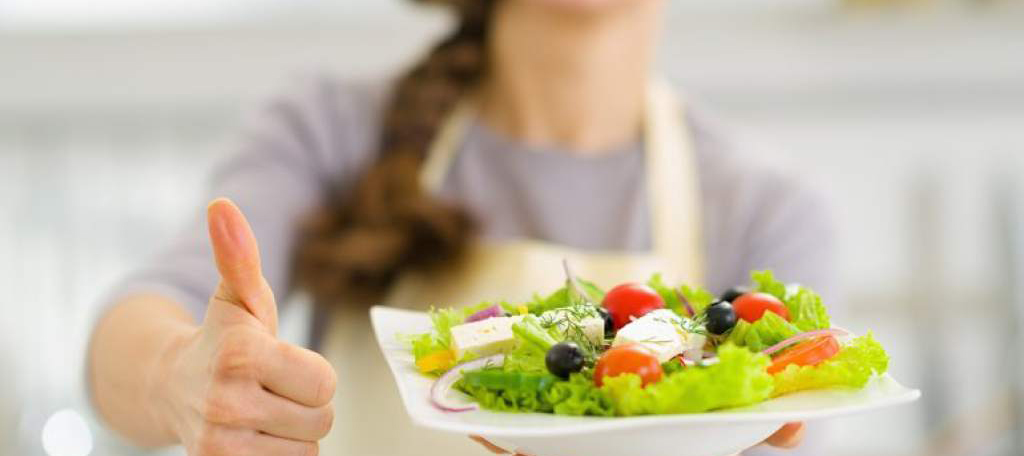
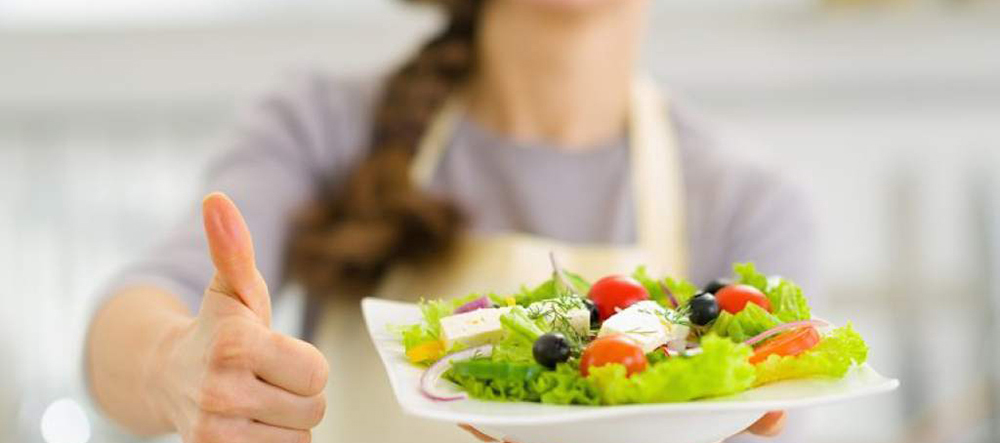
Arreglos varios nelson
Menu inferior y tamano img slider iguales

diff --git a/FlexSlider.css b/FlexSlider.css
@@ -56,11 +56,11 @@
 }
 
 .flex-control-nav li a:hover{
-	background: ##c09ead;
+	background: #c09ead;
 }
 
 .flex-control-nav li a.flex-active{
-	background: ##c09ead;	
+	background: #c09ead;	
 }
 
 .flex-direction-nav a{
@@ -110,8 +110,8 @@
 	width: 100%;
 	font-size: 55px;
 	color:#2980B9;
-	#A2D9CE;
-	#9C640C;
+	/*#A2D9CE;
+	#9C640C;*/
 	font-weight: bold;
 }
 
@@ -131,4 +131,8 @@
 
 .flexslider:hover .flex-direction-nav .flex-next:hover{
 	opacity: 1;
+}
+
+@media (max-width: 640px){
+	.flex-caption p{ font-size: 22px; }
 }

diff --git a/index.html b/index.html
@@ -65,7 +65,7 @@
 				</div>
 			</header> <!-- .site-header -->
 
-			<body>
+<!--body-->
     <div class="flexslider">
 		<ul class="slides">
 			<li>
@@ -94,7 +94,7 @@
 			</li>
 	     </ul>
 	</div>
-	</body>
+<!--/body-->
 
  <!-- .site-header
 			<div class="hero">

diff --git a/style_calcs.css b/style_calcs.css
@@ -58,8 +58,12 @@ figure {
     display: inline-block;
     color: white;
     text-align: center;
-    padding: 14px 16px;
+    padding: 0px 20px;
     text-decoration: none;
+}
+
+.dropdown a{
+    font-size: 0.875rem;
 }
 
 li.dropdown {
